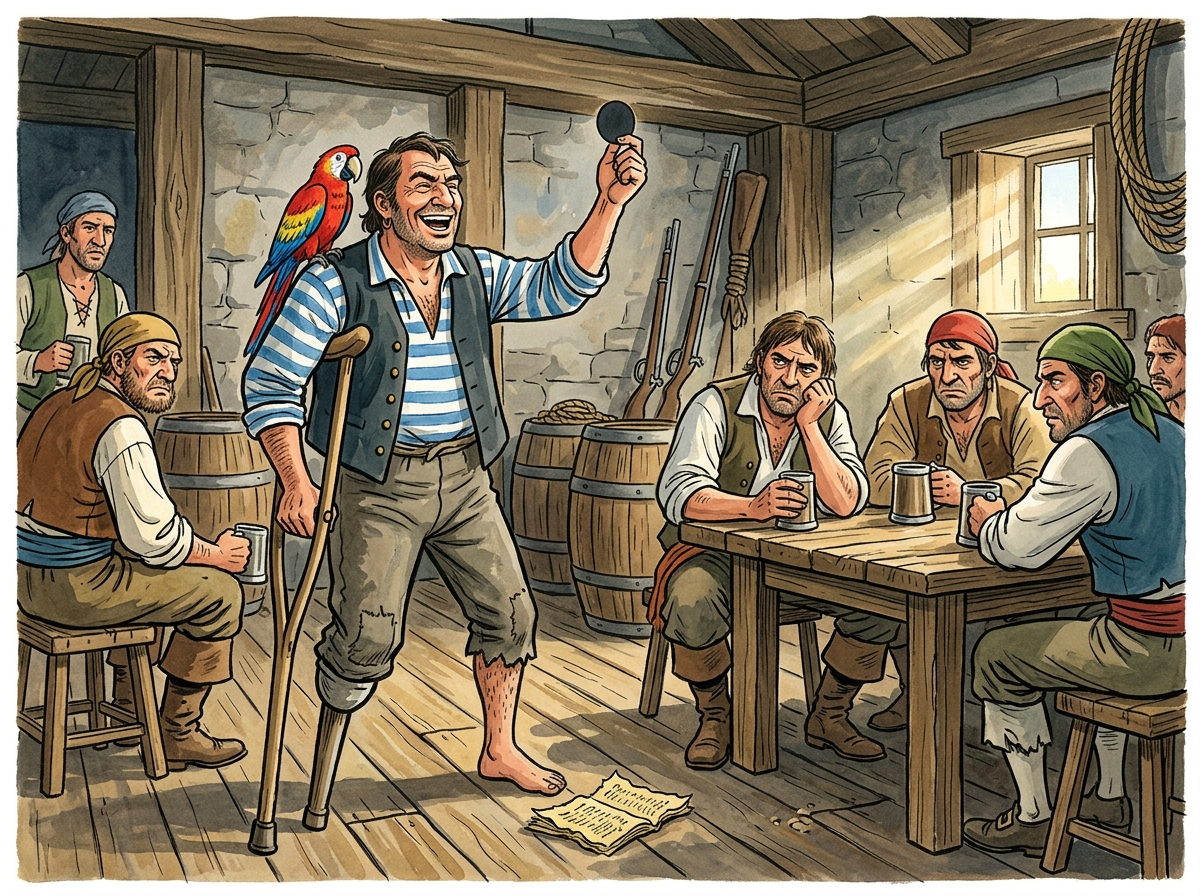
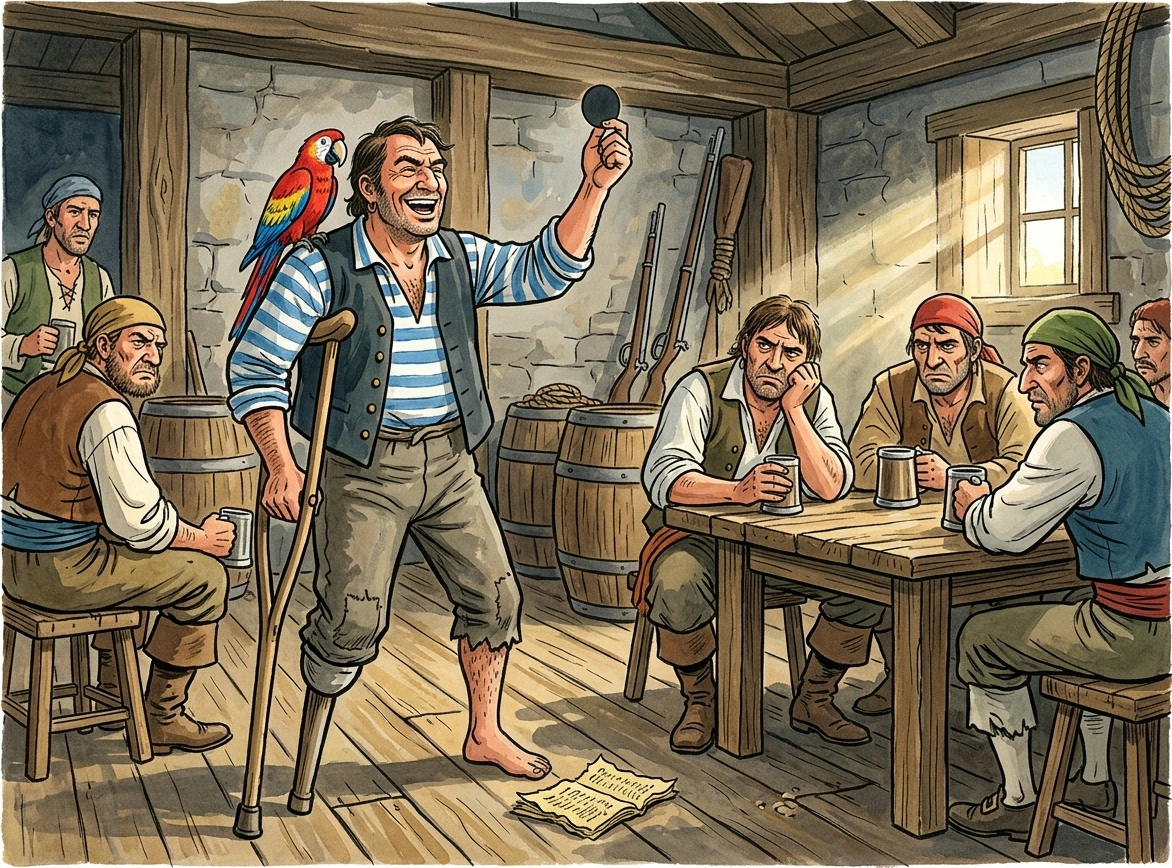
본문 그림의 흰 테두리도 잘라냄 · 주문서 공통 지시문에 못 박음
지금 있는 그림 89장을 훑어 테두리가 있는 것 세 장을 찾아 잘라냈다.

  장발장 16장 첫 그림      1200x896 → 1152x849
  보물섬 13장 첫 그림      1200x896 → 1143x843
  보물섬 16장 첫 그림      1200x896 → 1172x868

밝은 하늘이나 눈밭은 한쪽 변에만 밝아서 걸리지 않는다. 네 변 가운데 셋 이상이
한 가지 밝은 색으로 둘려 있고 그 띠가 얇을 때만 테두리로 본다.
장발장 것은 종이 여백이 고르지 않아 안쪽 검은 테두리선까지 잘랐다.

앞으로 들어올 1120장에 같은 일이 없도록 42권 주문서의 공통 지시문에
네 변 끝까지 닿게 그리라는 말을 넣었다.

diff --git a/learning/literacy-numeracy/story-books/world-novels/prince-pauper/IMAGE-PROMPTS.md b/learning/literacy-numeracy/story-books/world-novels/prince-pauper/IMAGE-PROMPTS.md
@@ -29,6 +29,9 @@ Draw the moment in motion, not a posed portrait: catch people mid-stride,
 mid-swing, mid-turn, mid-shout, cloth and hair and dust still moving. Faces
 are big and expressive. Pick the most interesting instant in the scene and
 stage it so a child wants to look at it for a while.
+The artwork must bleed to all four edges of the image: no white or cream
+margin, no border, no frame line, no painted paper edge, no matting.
+The picture fills the whole canvas corner to corner.
 ```
 
 **두 아이는 반드시 똑같은 얼굴로 그려 주세요.** 머리 색, 눈, 키, 이목구비가 완전히 같아야 하고,

diff --git a/learning/literacy-numeracy/story-books/world-novels/huck-finn/IMAGE-PROMPTS.md b/learning/literacy-numeracy/story-books/world-novels/huck-finn/IMAGE-PROMPTS.md
@@ -30,6 +30,9 @@ Draw the moment in motion, not a posed portrait: catch people mid-stride,
 mid-swing, mid-turn, mid-shout, cloth and hair and dust still moving. Faces
 are big and expressive. Pick the most interesting instant in the scene and
 stage it so a child wants to look at it for a while.
+The artwork must bleed to all four edges of the image: no white or cream
+margin, no border, no frame line, no painted paper edge, no matting.
+The picture fills the whole canvas corner to corner.
 ```
 
 **짐을 그릴 때 반드시 지켜 주세요.** 짐은 이 이야기에서 가장 어른스럽고 지혜로운 인물입니다.

diff --git a/learning/literacy-numeracy/story-books/world-novels/marco/IMAGE-PROMPTS.md b/learning/literacy-numeracy/story-books/world-novels/marco/IMAGE-PROMPTS.md
@@ -31,6 +31,9 @@ Draw the moment in motion, not a posed portrait: catch people mid-stride,
 mid-swing, mid-turn, mid-shout, cloth and hair and dust still moving. Faces
 are big and expressive. Pick the most interesting instant in the scene and
 stage it so a child wants to look at it for a while.
+The artwork must bleed to all four edges of the image: no white or cream
+margin, no border, no frame line, no painted paper edge, no matting.
+The picture fills the whole canvas corner to corner.
 ```
 
 **거리감이 이 책의 전부입니다.** 장이 넘어갈 때마다 배경이 더 멀고 더 낯설어져야 합니다.

diff --git a/learning/literacy-numeracy/story-books/world-novels/robinson/IMAGE-PROMPTS.md b/learning/literacy-numeracy/story-books/world-novels/robinson/IMAGE-PROMPTS.md
@@ -31,6 +31,9 @@ are big and expressive. Pick the most interesting instant in the scene and
 stage it so a child wants to look at it for a while.
 No blood, no wounds and no cruelty shown: when something violent happens,
 draw the moment just before or just after it instead.
+The artwork must bleed to all four edges of the image: no white or cream
+margin, no border, no frame line, no painted paper edge, no matting.
+The picture fills the whole canvas corner to corner.
 ```
 
 **프라이데이를 반드시 존엄하게 그려 주세요.** 이 지시문을 그 인물이 나오는 모든 프롬프트에 넣으세요.

diff --git a/learning/literacy-numeracy/story-books/world-novels/schimmel/IMAGE-PROMPTS.md b/learning/literacy-numeracy/story-books/world-novels/schimmel/IMAGE-PROMPTS.md
@@ -31,6 +31,9 @@ Draw the moment in motion, not a posed portrait: catch people mid-stride,
 mid-swing, mid-turn, mid-shout, cloth and hair and dust still moving. Faces
 are big and expressive. Pick the most interesting instant in the scene and
 stage it so a child wants to look at it for a while.
+The artwork must bleed to all four edges of the image: no white or cream
+margin, no border, no frame line, no painted paper edge, no matting.
+The picture fills the whole canvas corner to corner.
 ```
 
 **하늘을 크게 잡아 주세요.** 이 책은 배경이 곧 줄거리입니다. 화면의 삼분의 이 이상을

diff --git a/learning/literacy-numeracy/story-books/world-novels/greek/IMAGE-PROMPTS.md b/learning/literacy-numeracy/story-books/world-novels/greek/IMAGE-PROMPTS.md
@@ -30,6 +30,9 @@ Draw the moment in motion, not a posed portrait: catch people mid-stride,
 mid-swing, mid-turn, mid-shout, cloth and hair and dust still moving. Faces
 are big and expressive. Pick the most interesting instant in the scene and
 stage it so a child wants to look at it for a while.
+The artwork must bleed to all four edges of the image: no white or cream
+margin, no border, no frame line, no painted paper edge, no matting.
+The picture fills the whole canvas corner to corner.
 ```
 
 **신을 아이들 만화처럼 그리지 마세요.** 사람과 같은 모습이되 키가 크고 자세가 곧고,

diff --git a/learning/literacy-numeracy/story-books/world-novels/jekyll/IMAGE-PROMPTS.md b/learning/literacy-numeracy/story-books/world-novels/jekyll/IMAGE-PROMPTS.md
@@ -31,6 +31,9 @@ Draw the moment in motion, not a posed portrait: catch people mid-stride,
 mid-swing, mid-turn, mid-shout, cloth and hair and dust still moving. Faces
 are big and expressive. Pick the most interesting instant in the scene and
 stage it so a child wants to look at it for a while.
+The artwork must bleed to all four edges of the image: no white or cream
+margin, no border, no frame line, no painted paper edge, no matting.
+The picture fills the whole canvas corner to corner.
 ```
 
 **하이드를 괴물로 그리지 마세요.** 이 책에서 하이드가 무서운 것은 생김새가 아니라,

diff --git a/learning/literacy-numeracy/story-books/world-novels/little-princess/IMAGE-PROMPTS.md b/learning/literacy-numeracy/story-books/world-novels/little-princess/IMAGE-PROMPTS.md
@@ -31,6 +31,9 @@ are big and expressive. Pick the most interesting instant in the scene and
 stage it so a child wants to look at it for a while.
 No blood, no wounds and no cruelty shown: when something violent happens,
 draw the moment just before or just after it instead.
+The artwork must bleed to all four edges of the image: no white or cream
+margin, no border, no frame line, no painted paper edge, no matting.
+The picture fills the whole canvas corner to corner.
 ```
 
 **램 다스를 그릴 때 지켜 주세요.** 인도 사람인 램 다스는 솜씨 있고 사려 깊은 어른으로 그려 주세요.

diff --git a/learning/literacy-numeracy/story-books/world-novels/oliver/IMAGE-PROMPTS.md b/learning/literacy-numeracy/story-books/world-novels/oliver/IMAGE-PROMPTS.md
@@ -30,6 +30,9 @@ Draw the moment in motion, not a posed portrait: catch people mid-stride,
 mid-swing, mid-turn, mid-shout, cloth and hair and dust still moving. Faces
 are big and expressive. Pick the most interesting instant in the scene and
 stage it so a child wants to look at it for a while.
+The artwork must bleed to all four edges of the image: no white or cream
+margin, no border, no frame line, no painted paper edge, no matting.
+The picture fills the whole canvas corner to corner.
 ```
 
 **페이긴을 인종으로 그리지 마세요.** 이 판본에서 페이긴은 그저 아이들을 부려 먹는

diff --git a/learning/literacy-numeracy/story-books/world-novels/samguk/IMAGE-PROMPTS.md b/learning/literacy-numeracy/story-books/world-novels/samguk/IMAGE-PROMPTS.md
@@ -33,6 +33,9 @@ Draw the moment in motion, not a posed portrait: catch people mid-stride,
 mid-swing, mid-turn, mid-shout, cloth and hair and dust still moving. Faces
 are big and expressive. Pick the most interesting instant in the scene and
 stage it so a child wants to look at it for a while.
+The artwork must bleed to all four edges of the image: no white or cream
+margin, no border, no frame line, no painted paper edge, no matting.
+The picture fills the whole canvas corner to corner.
 ```
 
 **후한 시대의 옷과 무기로 그려 주세요.** 이 이야기는 흔히 훨씬 나중 시대(명나라)의

diff --git a/learning/literacy-numeracy/story-books/world-novels/pompeii/IMAGE-PROMPTS.md b/learning/literacy-numeracy/story-books/world-novels/pompeii/IMAGE-PROMPTS.md
@@ -32,6 +32,9 @@ Draw the moment in motion, not a posed portrait: catch people mid-stride,
 mid-swing, mid-turn, mid-shout, cloth and hair and dust still moving. Faces
 are big and expressive. Pick the most interesting instant in the scene and
 stage it so a child wants to look at it for a while.
+The artwork must bleed to all four edges of the image: no white or cream
+margin, no border, no frame line, no painted paper edge, no matting.
+The picture fills the whole canvas corner to corner.
 ```
 
 **폼페이를 실제 발굴 자료대로 그려 주세요.** 이 책은 발굴에서 나온 것들을 본문에

diff --git a/learning/literacy-numeracy/story-books/world-novels/seoyu/IMAGE-PROMPTS.md b/learning/literacy-numeracy/story-books/world-novels/seoyu/IMAGE-PROMPTS.md
@@ -32,6 +32,9 @@ Draw the moment in motion, not a posed portrait: catch people mid-stride,
 mid-swing, mid-turn, mid-shout, cloth and hair and dust still moving. Faces
 are big and expressive. Pick the most interesting instant in the scene and
 stage it so a child wants to look at it for a while.
+The artwork must bleed to all four edges of the image: no white or cream
+margin, no border, no frame line, no painted paper edge, no matting.
+The picture fills the whole canvas corner to corner.
 ```
 
 **손오공을 사람 얼굴의 원숭이로 그려 주세요.** 진짜 원숭이도 아니고 사람도 아닌
